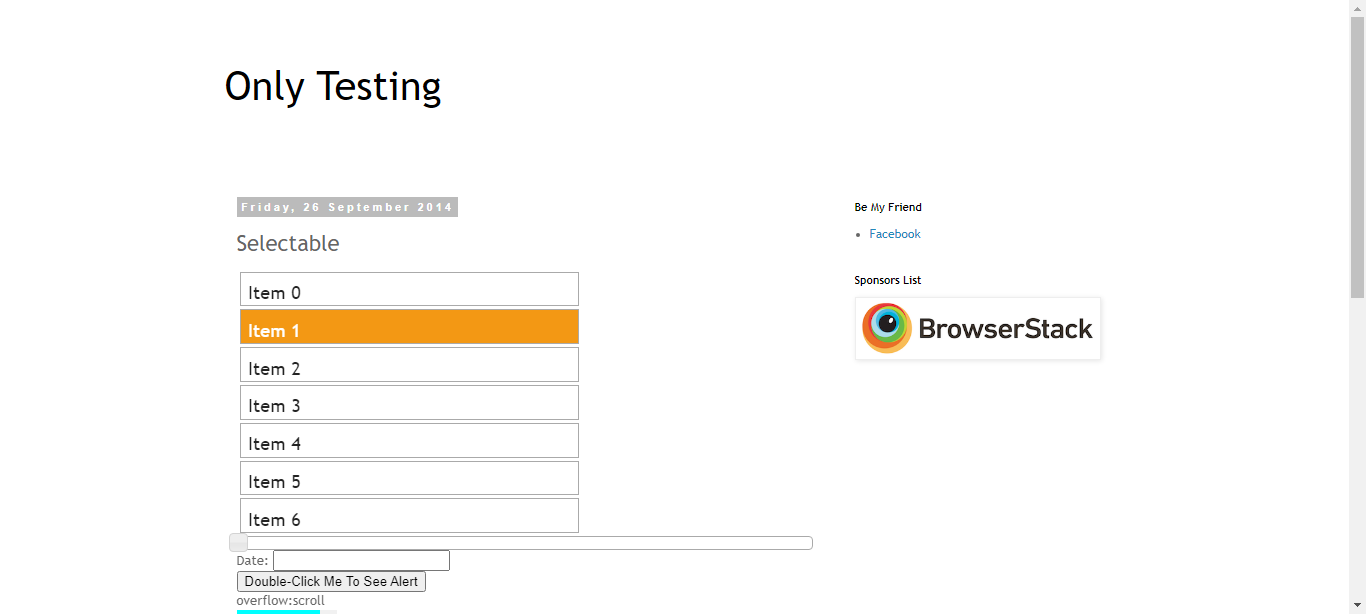
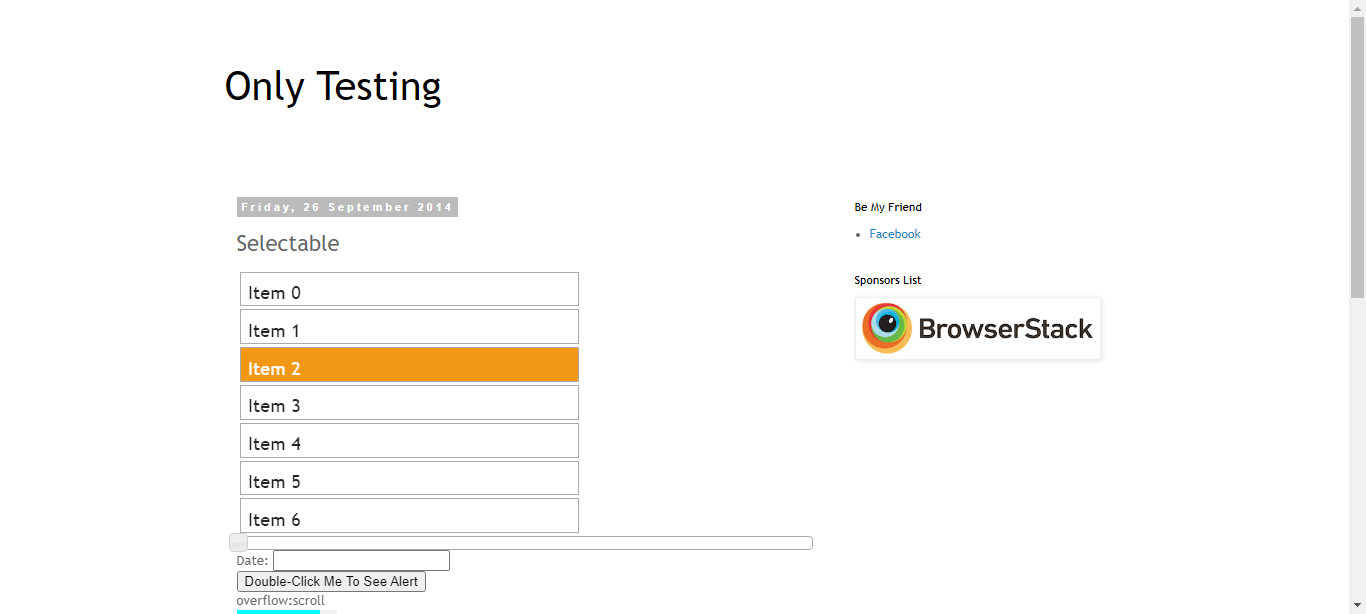
".Bat" file is created

Changed region(s): [[0.1537, 0.4951, 0.4305, 0.6189]]

diff --git a/TestCases/test_All.py b/TestCases/test_All.py
@@ -1,5 +1,6 @@
 import pytest
 
+from PageObjects.Drag_and_Drop_Menu_Objects import Drag_and_Drop_Objects
 from PageObjects.Relationship_Menu_Objects import Relationship_Objects
 from PageObjects.Selectable_Menu_Objects import Selectable_Objects
 from PageObjects.Table_With_Cheakbox_Menu_Objects import Table_With_Cheakbox_Objects
@@ -12,6 +13,7 @@ class Test:
     log = Log_Opractions.getLogs()
     Excel = Excel_File_Opractions()
 
+    @pytest.mark.unit
     @pytest.mark.Relationship
     def test_relationship(self, setup):
         self.log.info("Test Relationship is Started")
@@ -40,6 +42,7 @@ class Test:
         self.log.info("Test Relationship is Completed")
     # ------------------------------------------
 
+    @pytest.mark.unit
     @pytest.mark.Tooltip
     def test_tooltip(self, setup):
         self.log.info("Test Tooltip is Started")
@@ -95,8 +98,43 @@ class Test:
 
     @pytest.mark.Selectable
     def test_selectable(self, setup):
+        self.log.info("Test Selectable is Started")
+        self.driver = setup
+        self.log.info("Invoking Browser and Opening URL")
         self.driver = setup
         S = Selectable_Objects(self.driver)
+        R = Relationship_Objects(self.driver)
 
         S.selectable()
+        self.log.info("Clicking on Selectable Option")
         S.items()
+        self.log.info("Clicking on one by one itams")
+        S.double_ckick()
+        self.log.info("Clicking on Double Click Option")
+        self.log.info(f"Displayed Alert Message:{S.double_ckick()}")
+        R.status("Selectable")
+        self.log.info("Final Status of The Page is Captured")
+        self.driver.close()
+        self.log.info("Test Selectable is Completed")
+    # ------------------------------------------
+
+    @pytest.mark.Drag_and_Drop
+    def test_drag_and_drop(self, setup):
+        self.log.info("Test Drag and Drop is Started")
+        self.driver = setup
+        self.log.info("Invoking Browser and Opening URL")
+        D = Drag_and_Drop_Objects(self.driver)
+        R = Relationship_Objects(self.driver)
+
+        D.drag_and_drop()
+        self.log.info("Clicking on drag_and_drop Option")
+        self.driver.execute_script("window.scrollBy(0, 1500)")
+        D.drag_and_drop1()
+        self.log.info("Eleement is Drag to Target/Drop Position")
+        D.resize()
+        self.log.info("Changing The Size of an Selected Element")
+        R.status("Drag_And_Drop")
+        self.log.info("Final Status of The Page is Captured")
+        self.driver.close()
+        self.log.info("Test Drag and Drop is Completed")
+    # ------------------------------------------

diff --git a/PageObjects/Drag_and_Drop_Menu_Objects.py b/PageObjects/Drag_and_Drop_Menu_Objects.py
@@ -1,0 +1,26 @@
+from selenium.webdriver import ActionChains
+from selenium.webdriver.common.by import By
+
+
+class Drag_and_Drop_Objects:
+    Drag_and_Drop = (By.XPATH, "//a[normalize-space()='Drag and Drop']")
+    S = (By.XPATH, '//*[@id="dragdiv"]')
+    T = (By.XPATH, "//div[@id='dropdiv']")
+    Resize = (By.XPATH, '//*[@id="resizable"]/div[3]')
+
+    def __init__(self, driver):
+        self.driver = driver
+
+    def drag_and_drop(self):
+        self.driver.find_element(*Drag_and_Drop_Objects.Drag_and_Drop).click()
+
+    def drag_and_drop1(self):
+        action = ActionChains(self.driver)
+        Source = self.driver.find_element(*Drag_and_Drop_Objects.S)
+        Target = self.driver.find_element(*Drag_and_Drop_Objects.T)
+        action.drag_and_drop(Source, Target).perform()
+
+    def resize(self):
+        action = ActionChains(self.driver)
+        element = self.driver.find_element(*Drag_and_Drop_Objects.Resize)
+        action.drag_and_drop_by_offset(element, 400, 8).perform()

diff --git a/PageObjects/Selectable_Menu_Objects.py b/PageObjects/Selectable_Menu_Objects.py
@@ -1,3 +1,5 @@
+from selenium.webdriver import ActionChains
+from selenium.webdriver.common.alert import Alert
 from selenium.webdriver.common.by import By
 
 
@@ -11,9 +13,18 @@ class Selectable_Objects:
         self.driver.find_element(*Selectable_Objects.Selectable).click()
 
     def items(self):
-        k = 1
+        k = 0
         for i in range(1, 8):
             self.driver.find_element(By.XPATH, f'//*[@id="selectable"]/li[{i}]').click()
             self.driver.implicitly_wait(3)
             self.driver.get_screenshot_as_file(f"C:\\Users\\Tejas\\Only Testing Project\\Screenshots\\{k}.png")
             k += 1
+
+    def double_ckick(self):
+        action = ActionChains(self.driver)
+        alert = Alert(self.driver)
+        action.double_click(self.driver.find_element(By.XPATH, "//button[@ondblclick='myFunction()']")).perform()
+        self.driver.implicitly_wait(2)
+        tx = alert.text
+        alert.accept()
+        return tx

diff --git a/Only Stuffs.py b/Only Stuffs.py
@@ -1,4 +1,5 @@
 from selenium import webdriver
+from selenium.webdriver import ActionChains
 
 driver = webdriver.Edge()
 driver.get()
@@ -7,4 +8,5 @@ driver.find_element().send_keys()
 driver.implicitly_wait()
 k = driver.window_handles
 driver.switch_to.frame("frame1")
-("//h3[@class='post-title entry-title']")
+A = ActionChains(driver)
+A.click_and_hold(element).move_by_offset(150, 100).Perform()
